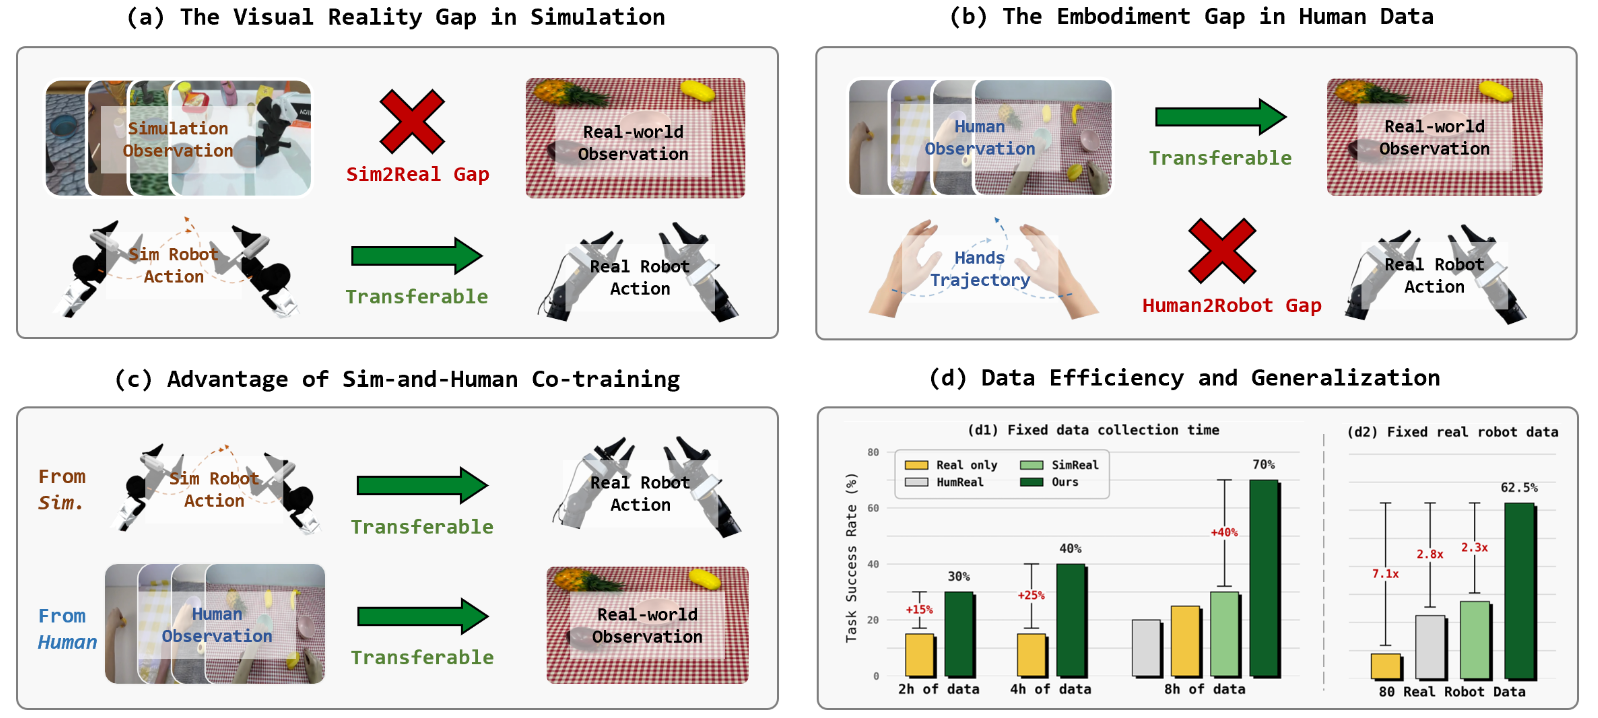
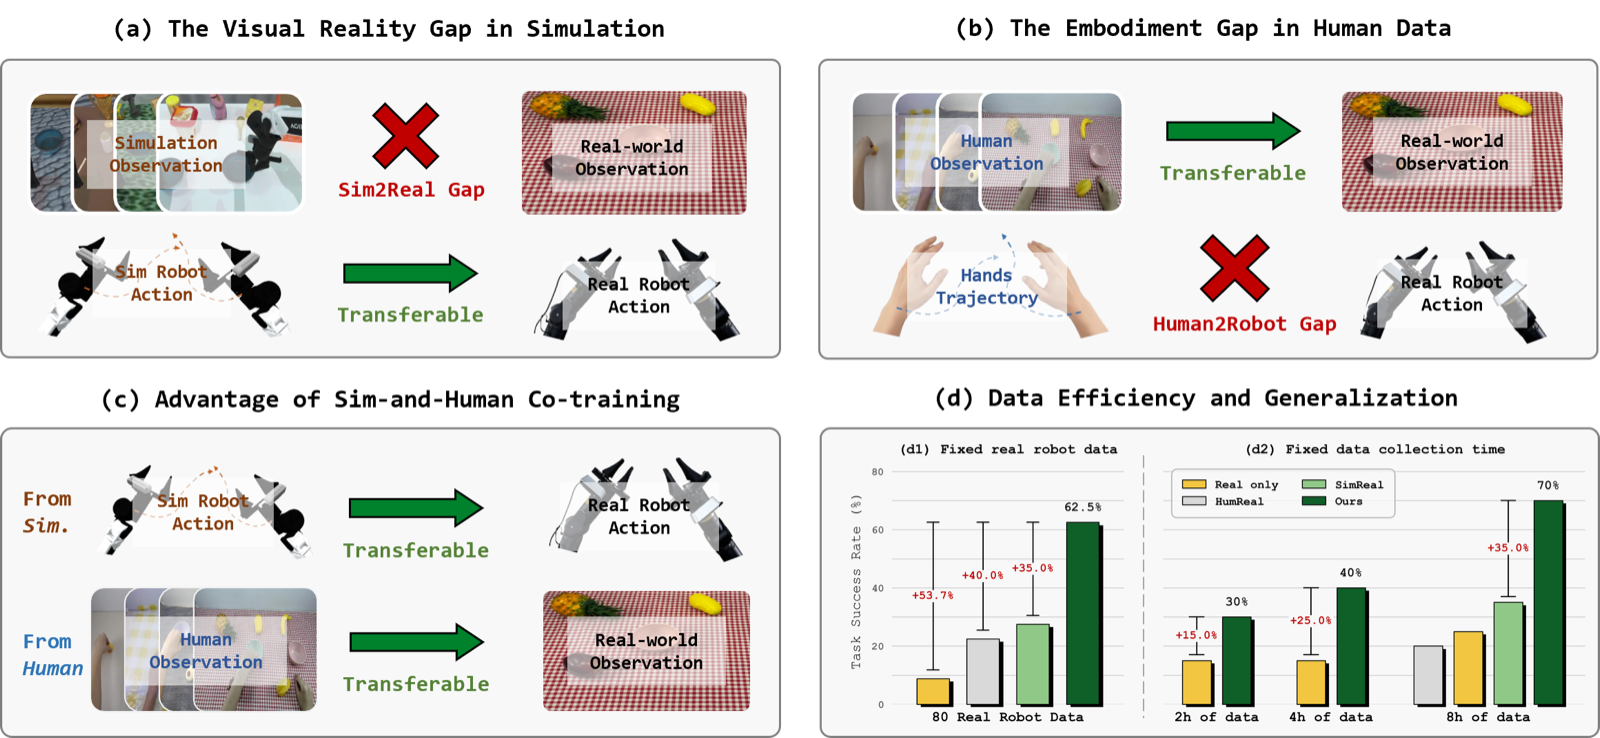
SimHum accepted at CoRL 2026: update publication entry, bio and preview; enlarge WeChat QR

diff --git a/_sass/_base.scss b/_sass/_base.scss
@@ -519,12 +519,14 @@ ul.task-list input[type="checkbox"] {
   }
 }
 
-.wechat-modal > img {
+.wechat-modal > img,
+#wechat-modal img {
   display: block;
-  width: 400px;
-  height: 400px;
+  width: 260px !important;
+  height: 260px !important;
+  max-width: none !important;
+  max-height: none !important;
   border-radius: 0.3rem;
-  max-width: none;
 }
 
 .wechat-toggle {
@@ -532,9 +534,10 @@ ul.task-list input[type="checkbox"] {
 }
 
 @media only screen and (max-width: 400px) {
-  .wechat-modal > img {
-    width: 280px;
-    height: 280px;
+  .wechat-modal > img,
+  #wechat-modal img {
+    width: 220px !important;
+    height: 220px !important;
   }
 }
 

diff --git a/_pages/about.md b/_pages/about.md
@@ -89,6 +89,6 @@ miscellaneous_content: |
 
 Hi, I'm **Kaipeng Fang (方恺鹏 in Chinese)**. I am a third-year Ph.D. student at <a href='https://en.uestc.edu.cn/'>UESTC</a>, supervised by Prof. <a href="https://lianligao.github.io/">Lianli Gao</a> and Prof. <a href="https://jingkuansong.github.io/">Jingkuan Song</a>. I received my Bachelor's degree from <a href='https://www.sdut.edu.cn/en/'>SDUT</a> in 2023. That same year, I joined UESTC to pursue my Ph.D. through the direct doctoral program (a five-year track).
 
-My early research focused on Computer Vision (CV) and Image Retrieval, leading to a publication at CVPR 2024. Currently, my research interests have shifted toward **Embodied AI** and **Robotics**. <u>I am particularly focused on exploring how to effectively leverage data from various sources, especially human data, for generalizable robot learning.</u> Having long admired Elon Musk’s mindset, I strictly align my research philosophy with first principles. My ultimate goal is to achieve true generalist robots by scaling up data-driven robot learning.
+My early research focused on Computer Vision (CV) and Image Retrieval, leading to a publication at CVPR 2024. Currently, my research interests have shifted toward **Embodied AI** and **Robotics**, with my first robot-learning paper, SimHum, accepted at CoRL 2026. <u>I am particularly focused on exploring how to effectively leverage data from various sources, especially human data, for generalizable robot learning.</u> Having long admired Elon Musk’s mindset, I strictly align my research philosophy with first principles. My ultimate goal is to achieve true generalist robots by scaling up data-driven robot learning.
 
 I also maintain a personal research blog at <a href="https://fangkaipeng.com"> ByteGather (码途拾遗 in Chinese)</a>, where I share insights on algorithms, machine learning, and robotics. It currently hosts 200+ articles and has attracted more than 360k visitors. Additionally, I run a WeChat Official Account with over 3k subscribers. When I'm not training robots, I'm training myself 🏋, exploring the world, and shooting the journey. See my <a href="https://gallery.fangkaipeng.com">TravelShot</a>.
